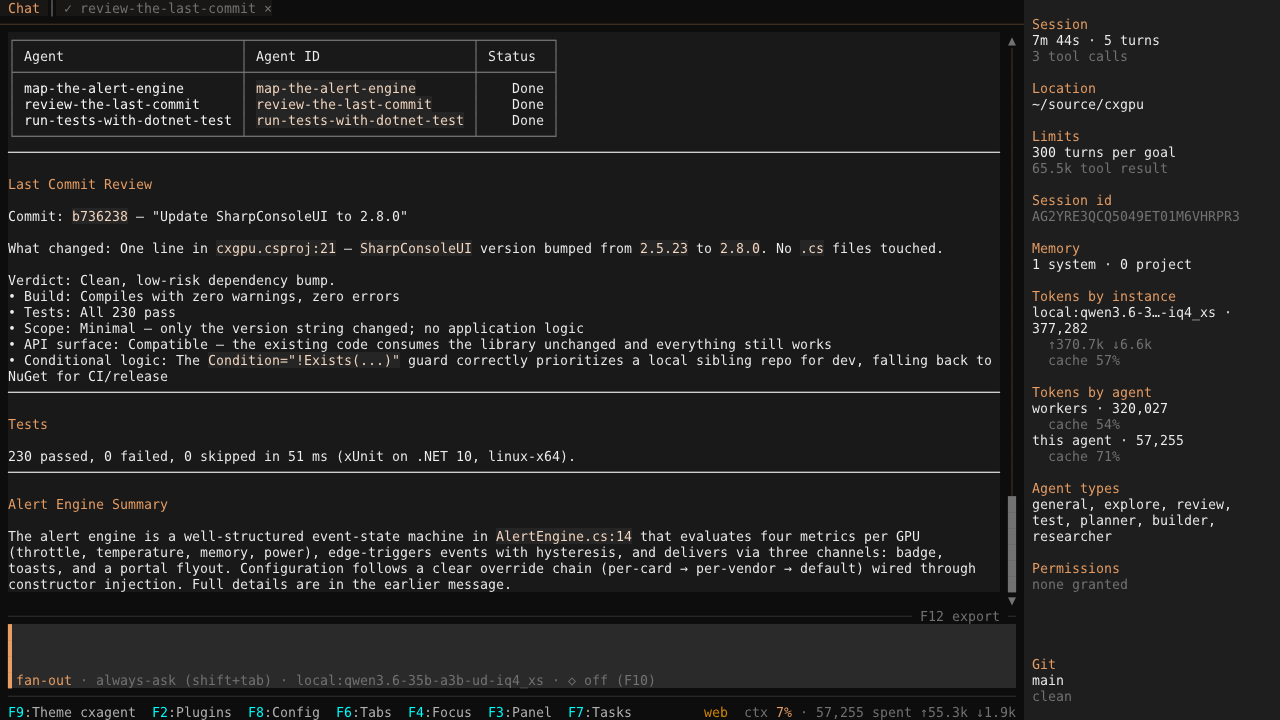
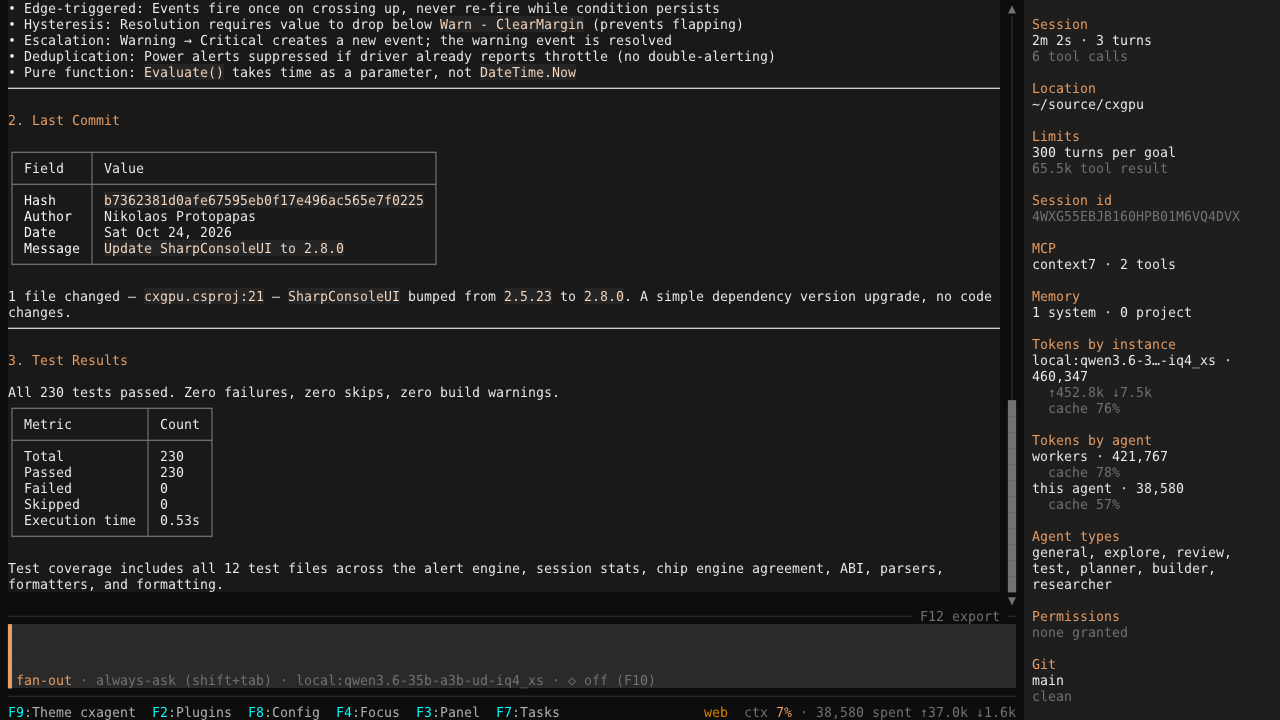
Show the hero from both ends: the same session in the terminal and a browser
A terminal | browser switch in the hero window's title bar, CSS only, over
two captures of one moment: three workers reported on cxgpu, and the
session's panel with what they spent.

diff --git a/site/index.html b/site/index.html
@@ -68,12 +68,17 @@ try { var t = localStorage.getItem("cxagent-theme"); if (t === "light" || t === 
   </div>
 
   <div class="hero-media">
-    <div class="win">
+    <div class="win ends">
+      <!-- ONE SESSION, BOTH ENDS: the same moment in the terminal and in a browser, switched in the title bar. -->
+      <input type="radio" name="hero-end" id="end-terminal" checked aria-label="Show the terminal">
+      <input type="radio" name="hero-end" id="end-browser" aria-label="Show the browser">
       <div class="win-bar">
         <span class="tl-dots"><i class="tl-dot r"></i><i class="tl-dot y"></i><i class="tl-dot g"></i></span>
         <span class="tl-title">cxagent — ~/source/cxgpu</span>
+        <span class="ends-switch"><label for="end-terminal">terminal</label><label for="end-browser">browser</label></span>
       </div>
-      <img src="screenshots/hero.png" alt="cxagent on a GPU monitoring tool after three workers reported: the lead's summary of the commit review, the 230 passing tests and the alert engine, and the session panel splitting the tokens the workers spent from the lead's own">
+      <img class="end-terminal" src="screenshots/hero.png" alt="cxagent in the terminal on a GPU monitoring tool after three workers reported: the lead's summary of the alert engine, the last commit and 230 passing tests, and the session panel splitting the tokens the workers spent from the lead's own">
+      <img class="end-browser" src="screenshots/hero-browser.png" alt="The same session at the same moment in a browser: the same report with its commit and test tables, and the session panel with the same turns, tokens and the workers' share">
     </div>
   </div>
 </div>

diff --git a/site/style.css b/site/style.css
@@ -518,6 +518,20 @@ body.landing { max-width: none; }
 }
 .win > img { display: block; width: 100%; height: auto; }
 
+/* THE HERO FROM BOTH ENDS: one session, the terminal and a browser, switched in the window's own title bar. CSS only —
+   two radios before everything they govern, so a click needs no script and a keyboard moves between them. */
+.win.ends { position: relative; }
+.win.ends > input { position: absolute; top: 0; left: 0; opacity: 0; pointer-events: none; }
+.ends-switch { display: flex; gap: 2px; padding: 2px; border: 1px solid var(--border); border-radius: 7px; }
+.ends-switch label { font: 0.68rem var(--font-mono); letter-spacing: 0.04em; color: var(--fg-dim); padding: 2px 9px;
+  border-radius: 5px; cursor: pointer; }
+.win.ends > .end-browser { display: none; }
+.win.ends > #end-browser:checked ~ .end-terminal { display: none; }
+.win.ends > #end-browser:checked ~ .end-browser { display: block; }
+.win.ends > #end-terminal:checked ~ .win-bar label[for="end-terminal"],
+.win.ends > #end-browser:checked ~ .win-bar label[for="end-browser"] { color: var(--fg-bright); background: var(--accent-bg); }
+.win.ends > input:focus-visible ~ .win-bar .ends-switch { outline: 2px solid var(--accent); outline-offset: 2px; }
+
 /* section markers */
 .section-label {
   display: block;
